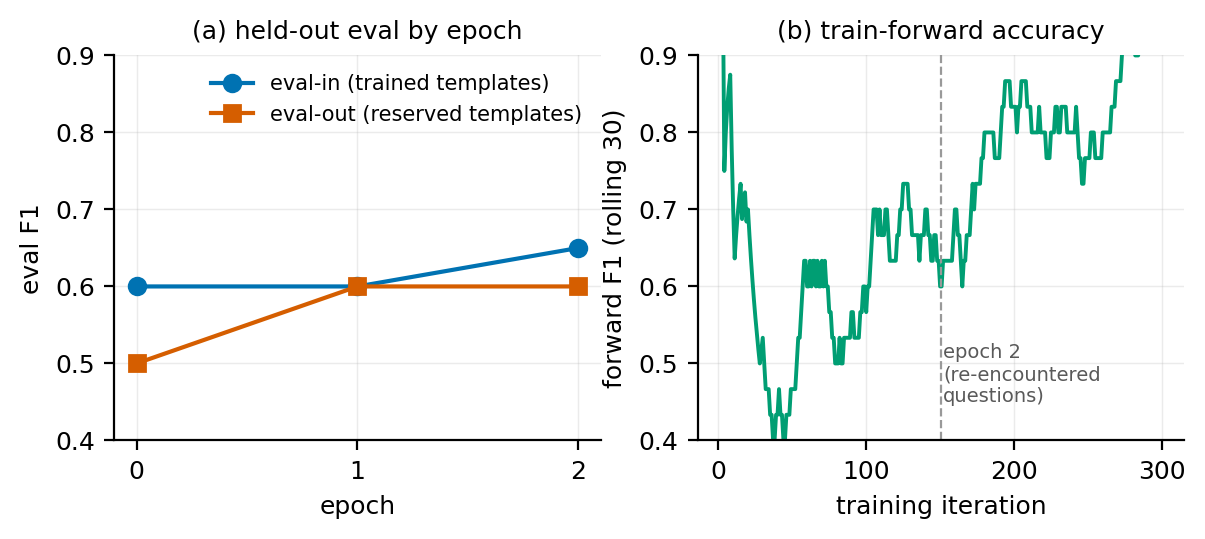
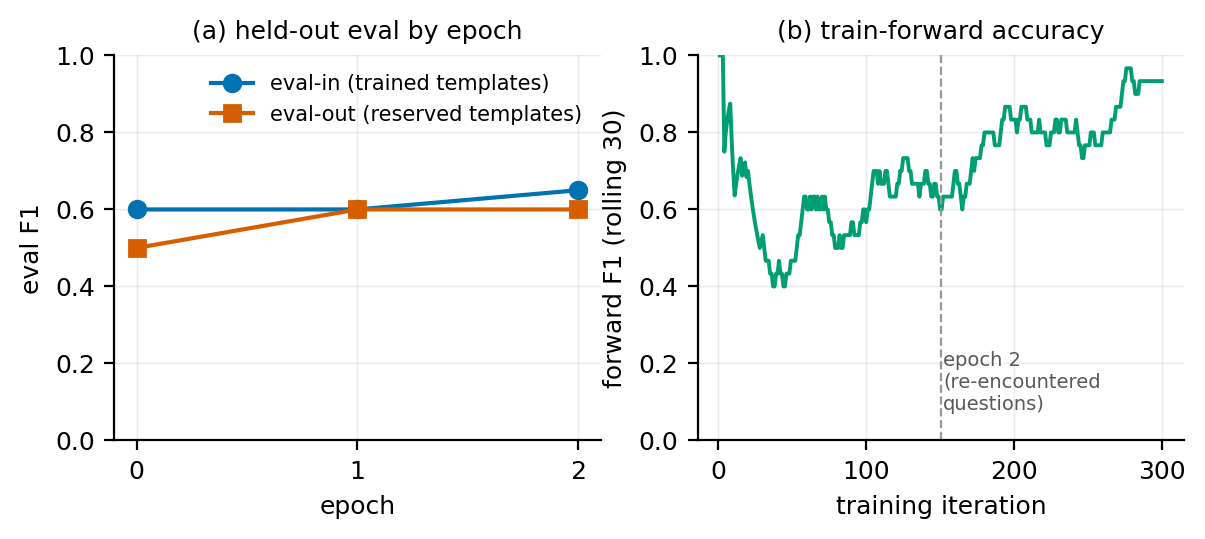
docs: figure axes start at 0

diff --git a/scripts/results_table.py b/scripts/results_table.py
@@ -1,0 +1,110 @@
+"""Assemble the E1/E2/E3 result tables from finished run directories.
+
+Reads test_log.jsonl from each arm's run dir and prints:
+  E2  method x split x budget:  F1, steps, tokens/question, unanswered
+  E3  three-layer scores and the per-category profile for the trained store
+Numbers are printed to the precision the paper reports; nothing is inferred.
+"""
+import json
+import sys
+from collections import defaultdict
+from pathlib import Path
+
+ARMS = [                       # label, m15 dir, m8 dir
+    ("B1 flat",        "v10L_b1_m15",       "v10L_b1_m8"),
+    ("B3 GraphRAG",    "v10L_graphrag_m15", "v10L_graphrag_m8"),
+    ("B5 HippoRAG2",   "v10L_hipporag_m15", "v10L_hipporag_m8"),
+    ("Ours (trained)", "v10L_trained_m15",  "v10L_trained_m8"),
+]
+RUNS = Path("runs")
+
+
+def load(run):
+    p = RUNS / run / "test_log.jsonl"
+    if not p.exists():
+        return None
+    return [json.loads(l) for l in open(p)]
+
+
+def agg(rows, split):
+    rs = [r for r in rows if r["split"] == split]
+    if not rs:
+        return None
+    n = len(rs)
+    return dict(n=n,
+                f1=sum(r["f1"] for r in rs) / n,
+                steps=sum(r["steps"] for r in rs) / n,
+                tok=sum(r["tokens_in"] + r["tokens_out"] for r in rs) / n,
+                unans=sum(1 for r in rs if r["status"] == "unanswered"))
+
+
+def e2():
+    print("E2  baseline table (150 questions: 100 test_in + 50 test_out)\n")
+    hdr = f"{'method':<16}{'budget':<8}{'split':<10}{'n':>4}{'F1':>7}{'steps':>7}{'tok/q':>8}{'unans':>7}"
+    print(hdr)
+    print("-" * len(hdr))
+    for label, d15, d8 in ARMS:
+        for budget, d in (("M=15", d15), ("M=8", d8)):
+            rows = load(d)
+            if rows is None:
+                print(f"{label:<16}{budget:<8}{'(pending)':<10}")
+                continue
+            for split in ("test_in", "test_out"):
+                a = agg(rows, split)
+                if a:
+                    print(f"{label:<16}{budget:<8}{split:<10}{a['n']:>4}"
+                          f"{a['f1']:>7.3f}{a['steps']:>7.1f}{a['tok']:>8.0f}{a['unans']:>7}")
+        print()
+
+
+def e3(train_run="v10L_dedup"):
+    print("\nE3  three-layer generalization\n")
+    tl = [json.loads(l) for l in open(RUNS / train_run / "train_log.jsonl")]
+    for ep in sorted({r["epoch"] for r in tl}):
+        rs = [r for r in tl if r["epoch"] == ep]
+        print(f"  train-forward epoch {ep}: F1 {sum(r['f1'] for r in rs)/len(rs):.3f} "
+              f"(n={len(rs)}; valid as retention from epoch 2)")
+    rows = load("v10L_trained_m15")
+    if rows:
+        for split in ("test_in", "test_out"):
+            a = agg(rows, split)
+            print(f"  {split:<9}: F1 {a['f1']:.3f} (n={a['n']})")
+        print("\n  per-category profile (trained vs B1, M=15)\n")
+        base = load("v10L_b1_m15")
+        bycat = defaultdict(lambda: {"t": [], "b": []})
+        for r in rows:
+            bycat[r["category"]]["t"].append(r["f1"])
+        for r in base or []:
+            bycat[r["category"]]["b"].append(r["f1"])
+        print(f"  {'cat':<7}{'n':>4}{'B1':>8}{'trained':>9}{'delta':>8}")
+        for cat in sorted(bycat):
+            t, b = bycat[cat]["t"], bycat[cat]["b"]
+            if not t or not b:
+                continue
+            tm, bm = sum(t) / len(t), sum(b) / len(b)
+            print(f"  {cat:<7}{len(t):>4}{bm:>8.2f}{tm:>9.2f}{tm-bm:>+8.2f}")
+
+
+def costs(train_run="v10L_dedup"):
+    print("\nCosts\n")
+    tl = [json.loads(l) for l in open(RUNS / train_run / "train_log.jsonl")]
+    tin = sum(r["tokens_in"] for r in tl)
+    tout = sum(r["tokens_out"] for r in tl)
+    print(f"  training: {len(tl)} iterations, {tin+tout:,} tokens "
+          f"({tin:,} in / {tout:,} out), {sum(r['seconds'] for r in tl)/3600:.1f} h")
+    tr, b1 = load("v10L_trained_m15"), load("v10L_b1_m15")
+    if tr and b1:
+        ct = sum(r["tokens_in"] + r["tokens_out"] for r in tr) / len(tr)
+        cb = sum(r["tokens_in"] + r["tokens_out"] for r in b1) / len(b1)
+        print(f"  answering: B1 {cb:.0f} tok/q, trained {ct:.0f} tok/q, "
+              f"saving {cb-ct:+.0f}")
+        if cb > ct:
+            print(f"  break-even N* = {(tin+tout)/(cb-ct):.0f} questions")
+        else:
+            print("  break-even: undefined (trained store is not cheaper per question)")
+
+
+if __name__ == "__main__":
+    e2()
+    e3()
+    costs()

diff --git a/scripts/make_figures.py b/scripts/make_figures.py
@@ -46,16 +46,16 @@ ax1.plot(epochs, ev_out, "s-", color=VERM, label="eval-out (reserved templates)"
 ax1.set_xticks(epochs)
 ax1.set_xlabel("epoch")
 ax1.set_ylabel("eval F1")
-ax1.set_ylim(0.4, 0.9)
+ax1.set_ylim(0, 1.0)
 ax1.legend(frameon=False, fontsize=7.5)
 ax1.set_title("(a) held-out eval by epoch", fontsize=9)
 
 ax2.plot(range(1, len(roll) + 1), roll, color=GREEN, lw=1.4)
 ax2.axvline(150.5, color="0.6", ls="--", lw=0.8)
-ax2.text(152, 0.45, "epoch 2\n(re-encountered\nquestions)", fontsize=7, color="0.35")
+ax2.text(152, 0.08, "epoch 2\n(re-encountered\nquestions)", fontsize=7, color="0.35")
 ax2.set_xlabel("training iteration")
 ax2.set_ylabel(f"forward F1 (rolling {W})")
-ax2.set_ylim(0.4, 0.9)
+ax2.set_ylim(0, 1.0)
 ax2.set_title("(b) train-forward accuracy", fontsize=9)
 save(fig, "learning")
 
